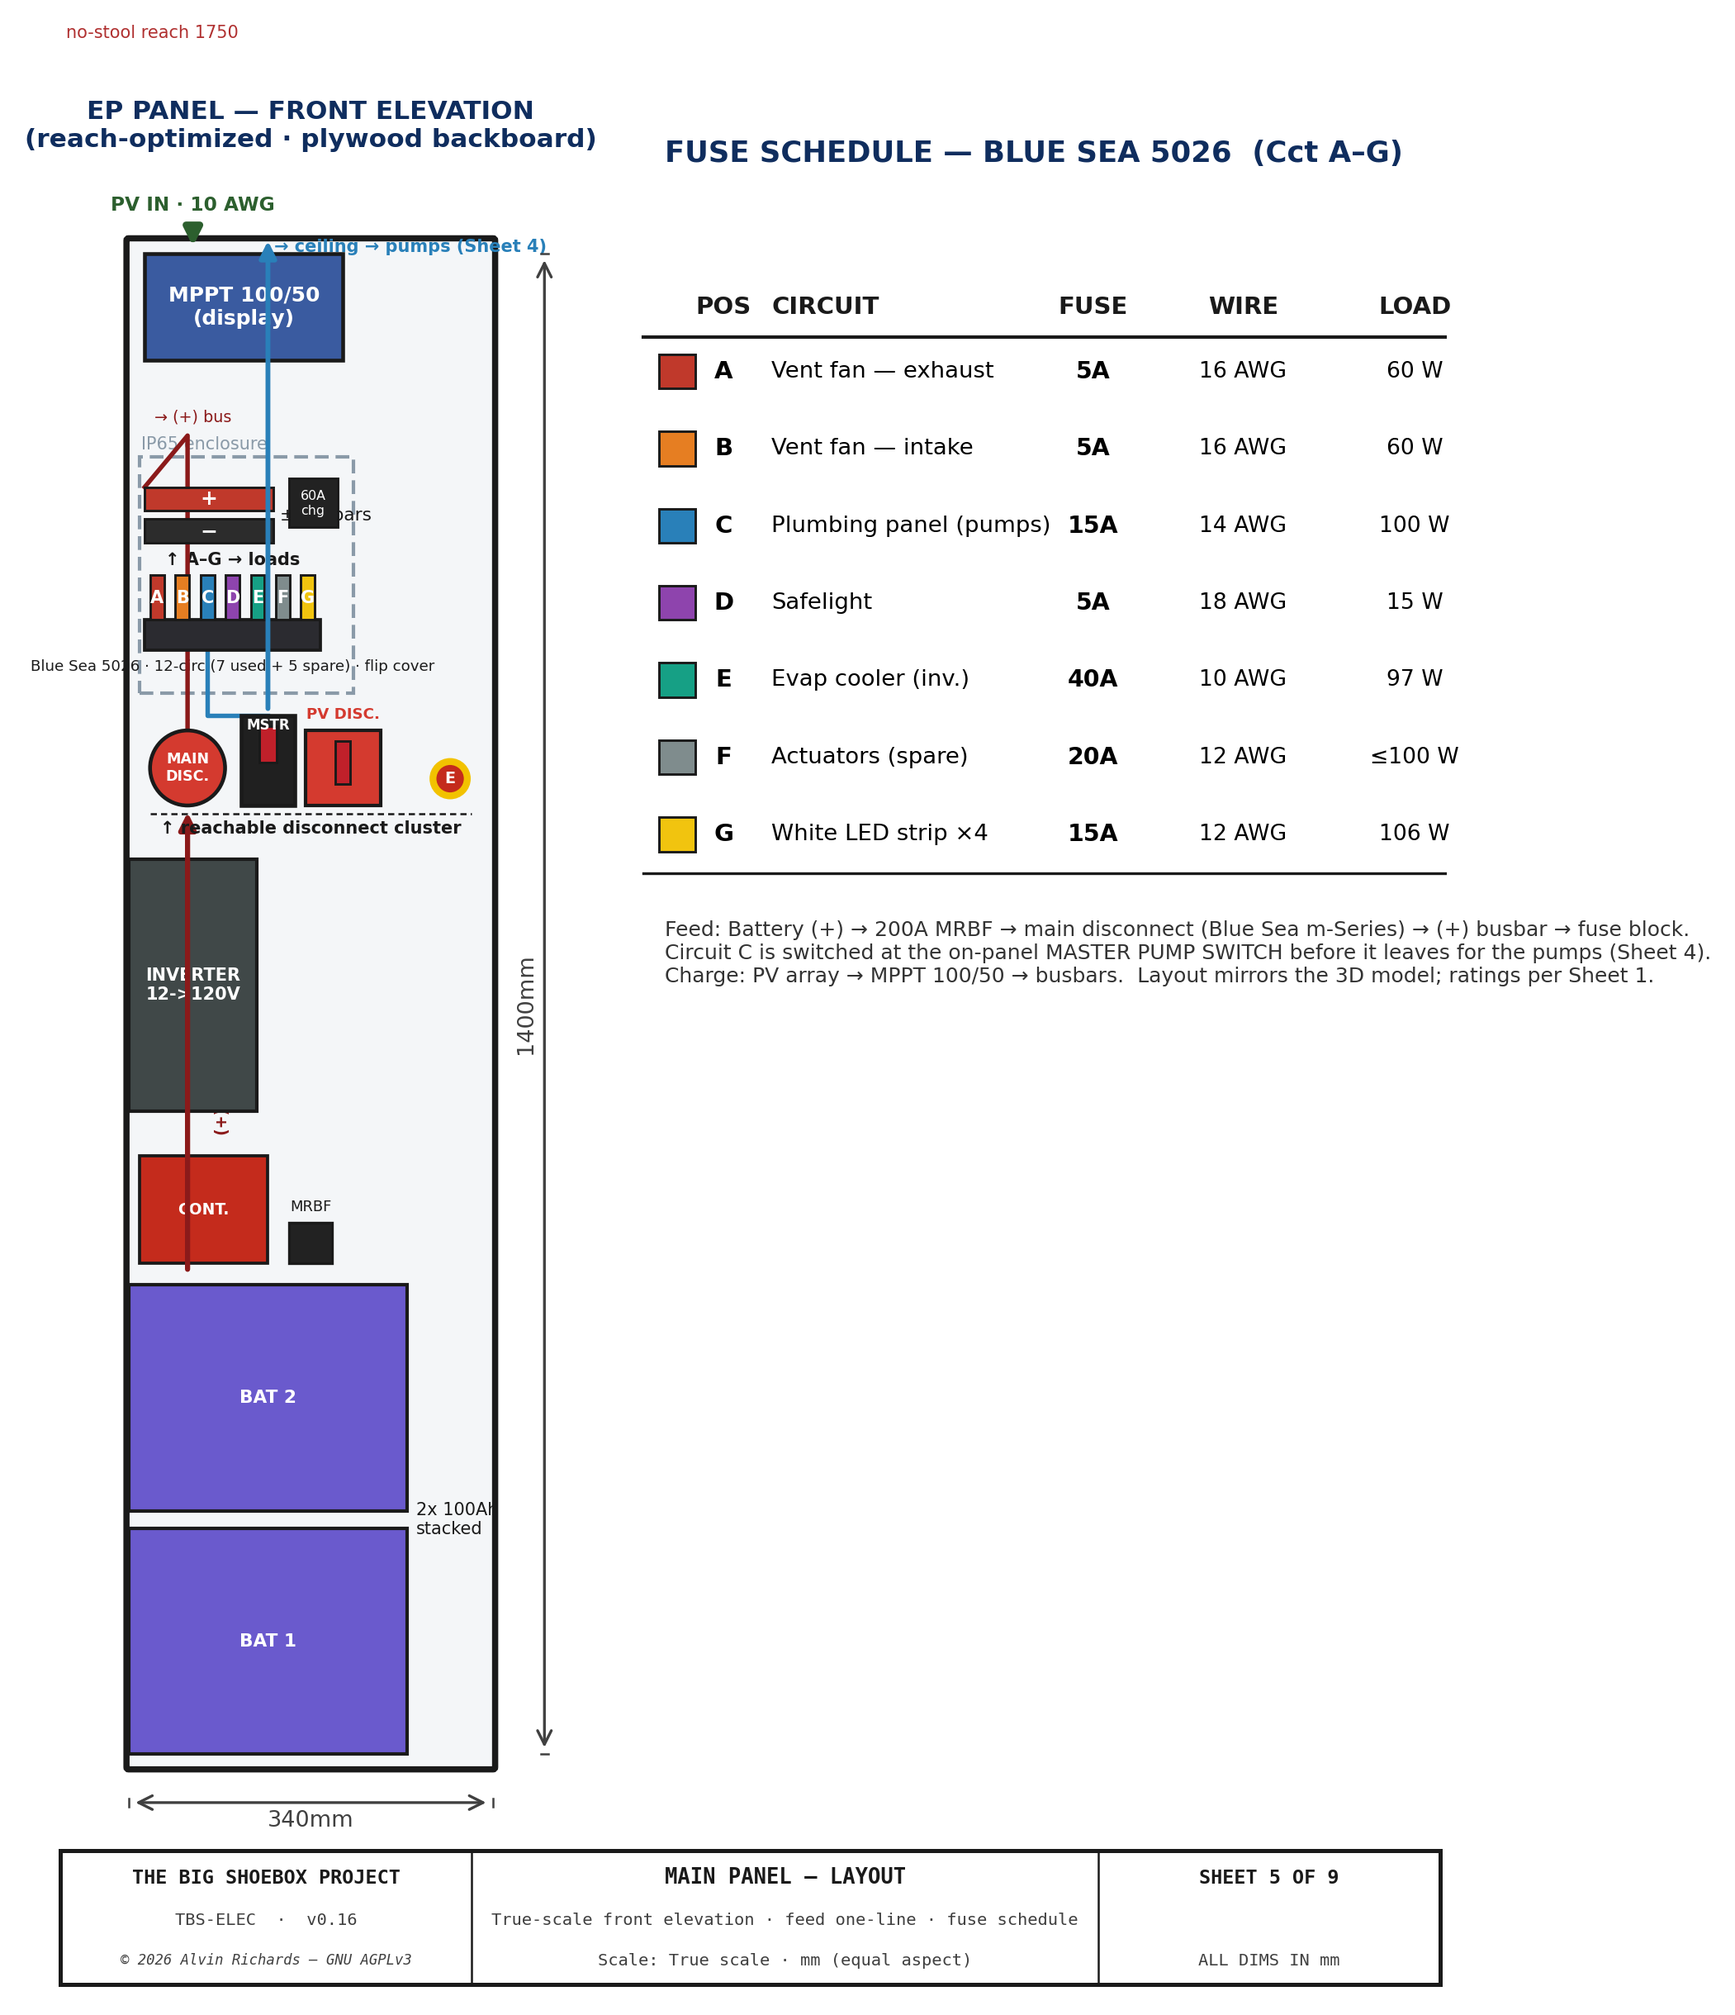
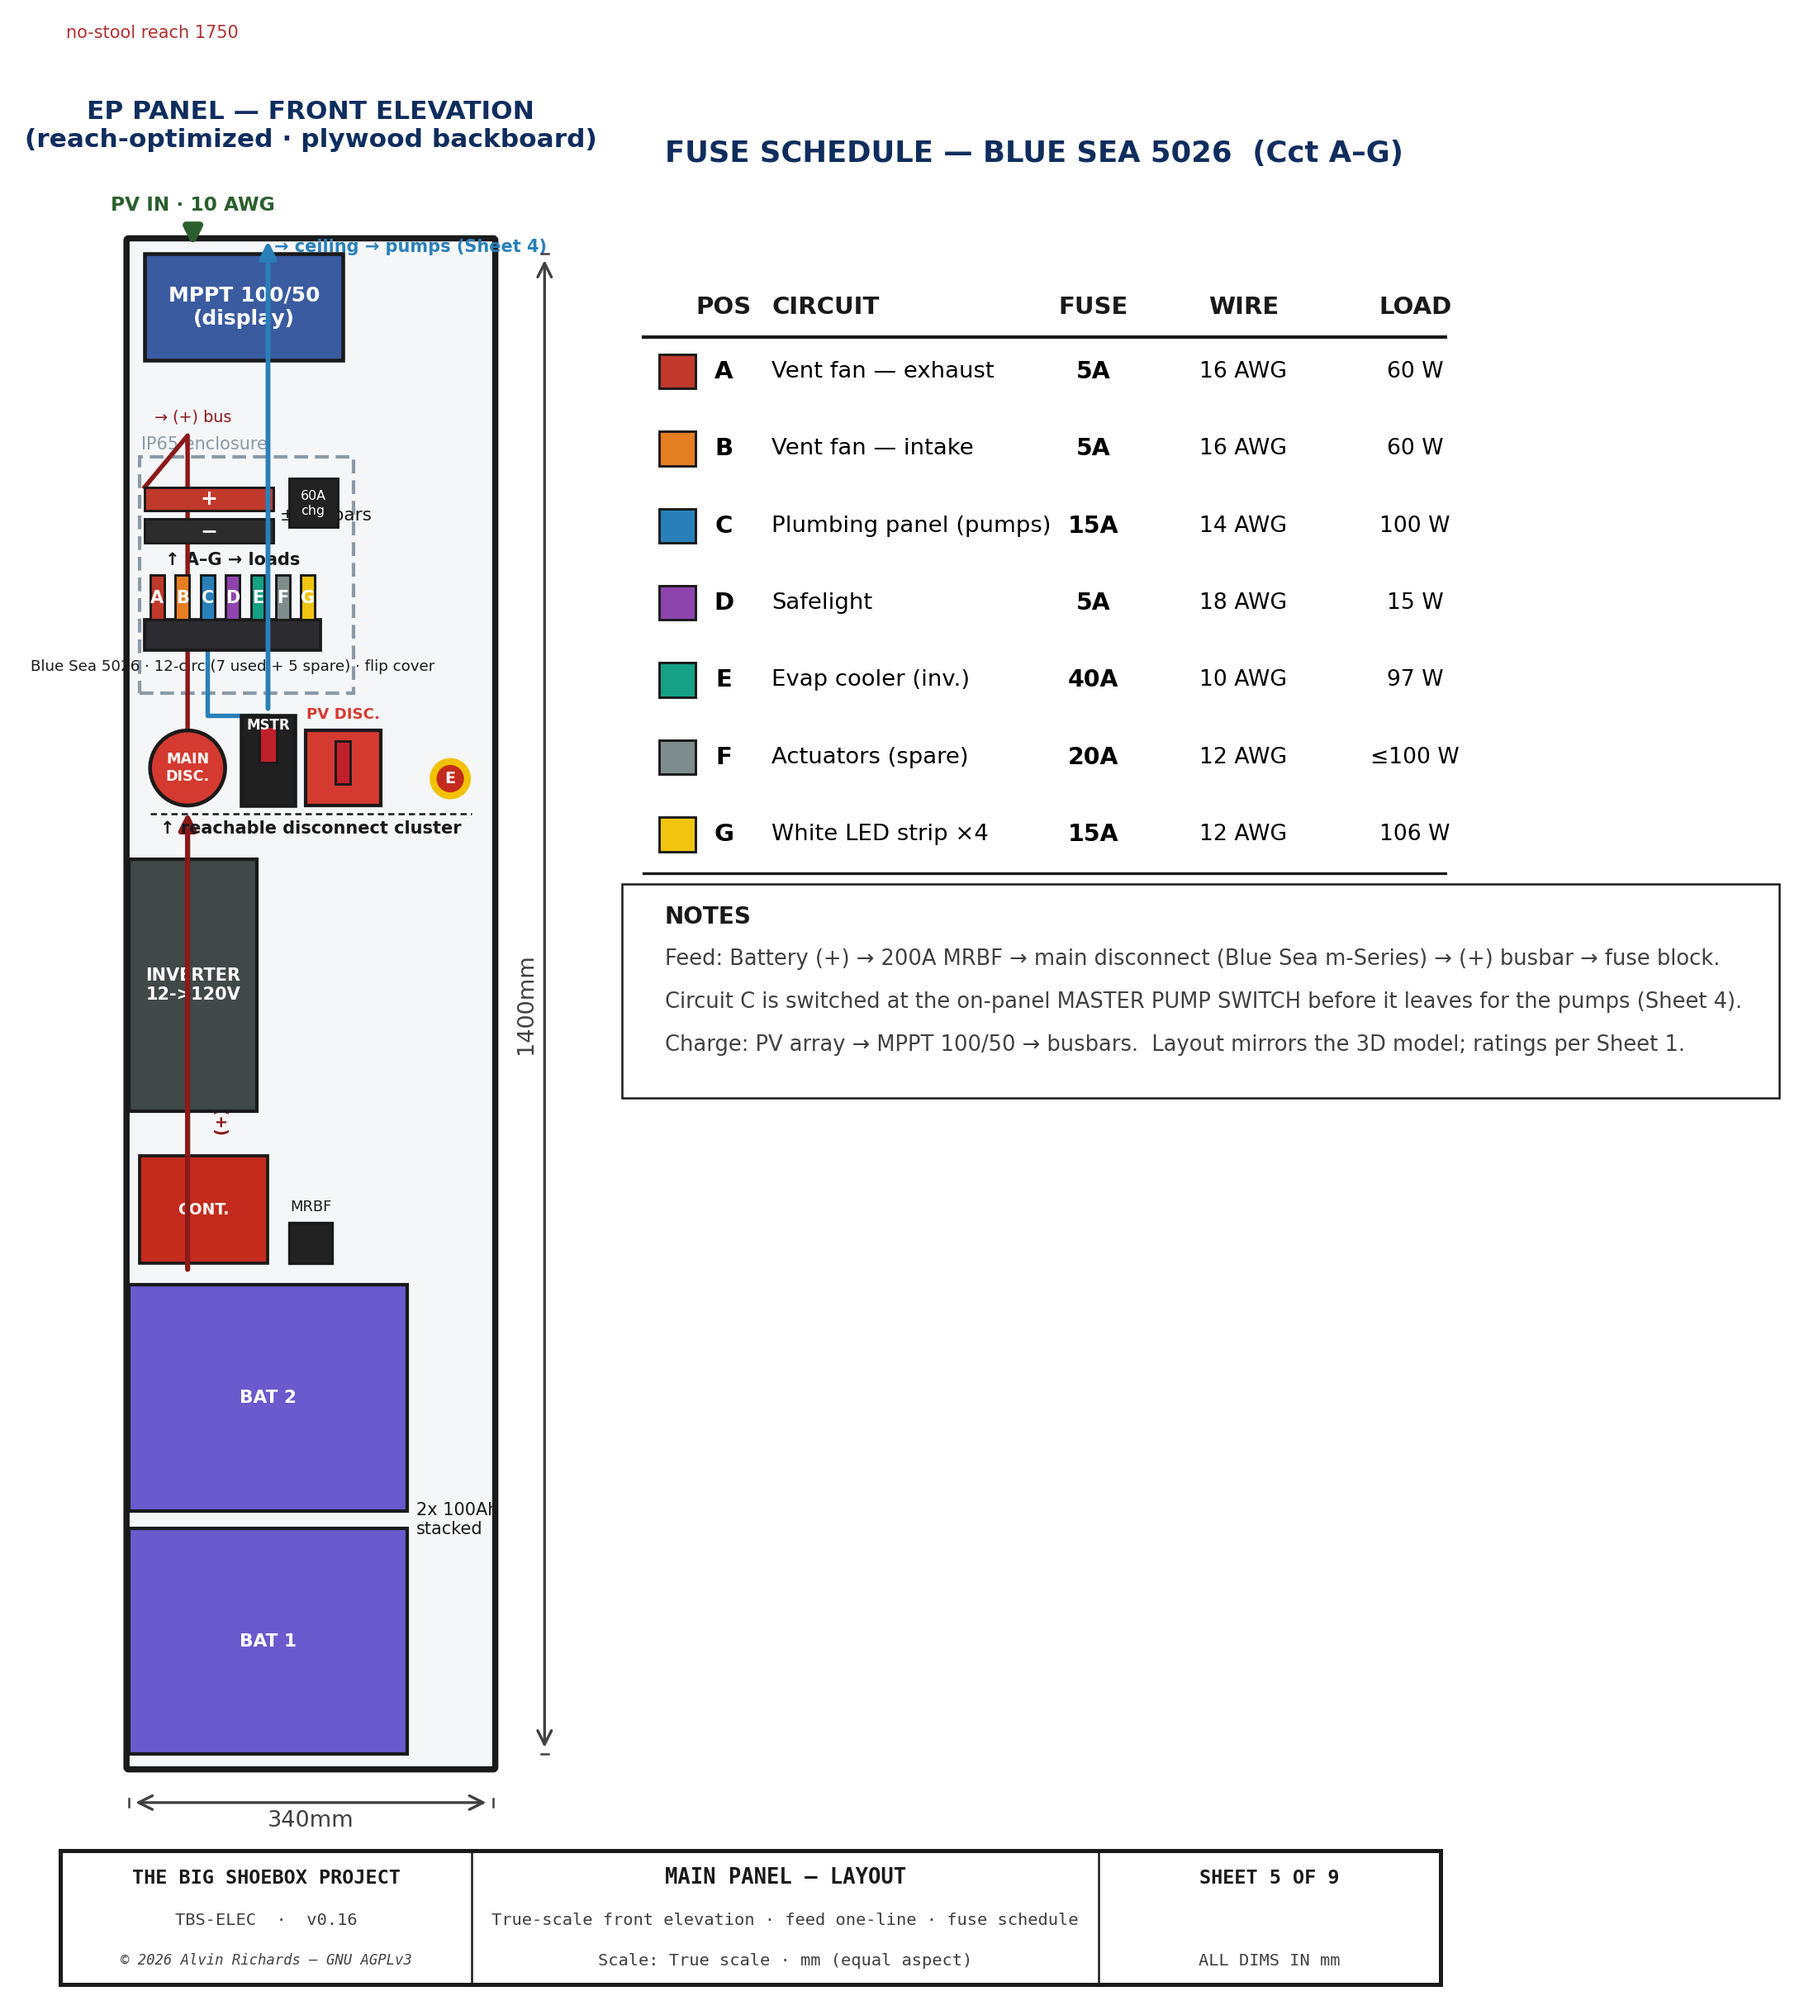
electrical Sheet 5: feed/charge text -> bordered NOTES block (draw_notes)
The power-path paragraph under the fuse schedule was a bare ax.text; render it
as a proper house-style note block (bold NOTES title + border) via draw_notes
on the data axes.

diff --git a/src/generators/generate_electrical_diagram.py b/src/generators/generate_electrical_diagram.py
@@ -1669,11 +1669,12 @@ def draw_sheet5():
         ax.text(tx + 700, ry, ld, ha="center", va="center", fontsize=6.4)
     botline = th - 60 - len(CIRCUITS5) * row_h + 36
     ax.plot([tx - 20, tx + 790], [botline, botline], color=C_OUT, lw=0.8)
-    ax.text(tx, botline - 44,
-            "Feed: Battery (+) → 200A MRBF → main disconnect (Blue Sea m-Series) → (+) busbar → fuse block.\n"
-            "Circuit C is switched at the on-panel MASTER PUMP SWITCH before it leaves for the pumps (Sheet 4).\n"
-            "Charge: PV array → MPPT 100/50 → busbars.  Layout mirrors the 3D model; ratings per Sheet 1.",
-            ha="left", va="top", fontsize=6, color="#333")
+    draw_notes(ax, [
+        "NOTES",
+        "Feed: Battery (+) → 200A MRBF → main disconnect (Blue Sea m-Series) → (+) busbar → fuse block.",
+        "Circuit C is switched at the on-panel MASTER PUMP SWITCH before it leaves for the pumps (Sheet 4).",
+        "Charge: PV array → MPPT 100/50 → busbars.  Layout mirrors the 3D model; ratings per Sheet 1.",
+    ], tx, botline - 30, spacing=40, fs=6.2, width=1000)
 
     ax.set_xlim(-70, 1230)
     ax.set_ylim(-60, 1720)   # headroom below the panel (bottom at BA_H_LO-12=148) for the title block
